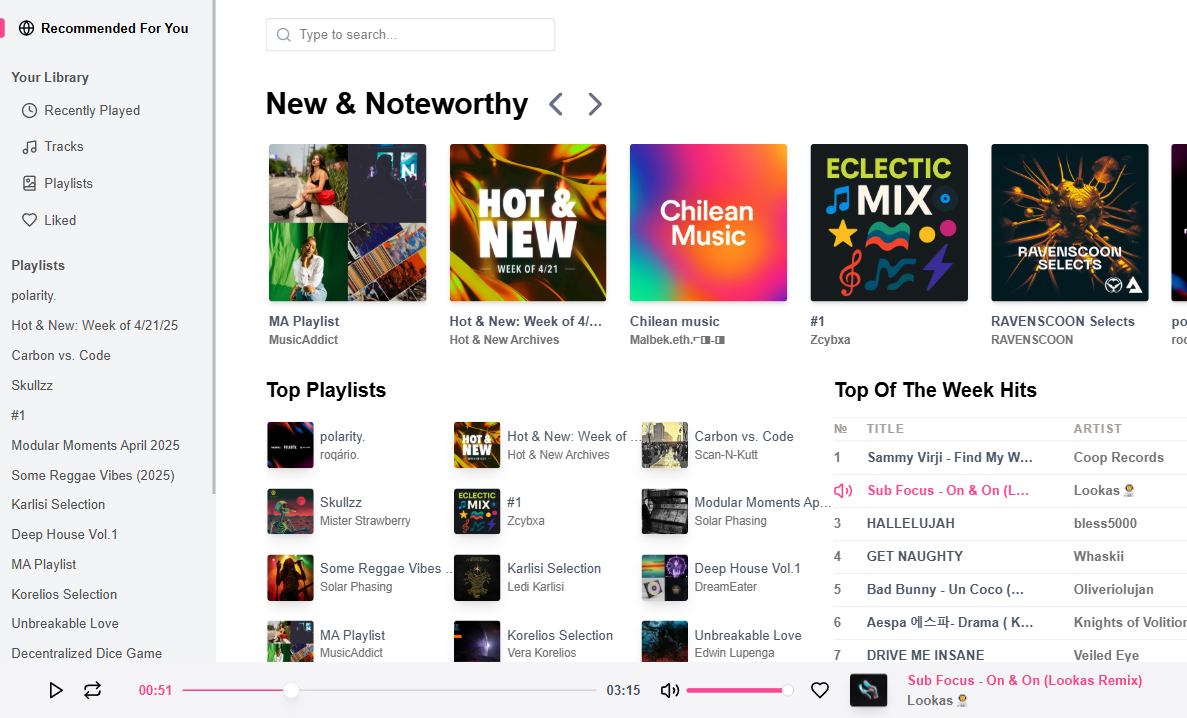
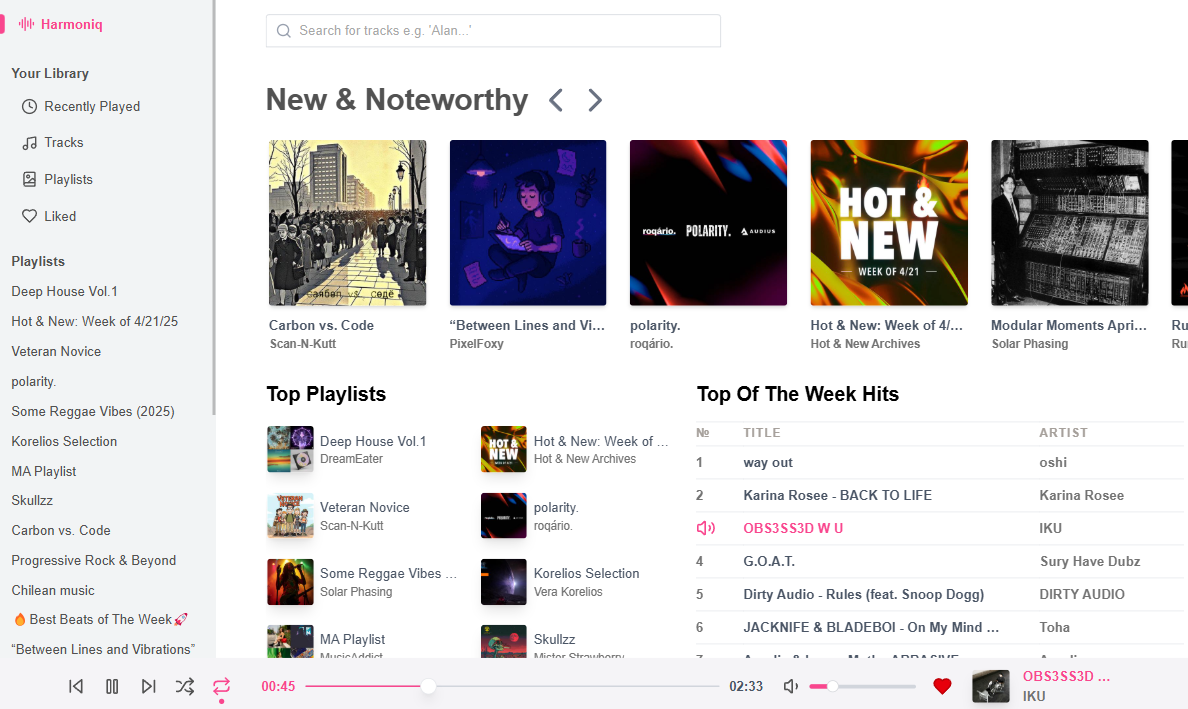
fix (portfolio): update portfolio images (harmoniq)

diff --git a/index.html b/index.html
@@ -43,7 +43,7 @@
       content="Portfolio Dmitrii Golovicichin: web development, projects, skills and contacts."
     />
     <meta name="twitter:image" content="./images/open_graph.webp" />
-    
+
     <meta
       name="google-site-verification"
       content="1N_3vfkRyYtsBKolJtjEsOKwwltzLeN5Prsq76te1-E"
@@ -950,7 +950,7 @@
                   <a
                     title="Open the website in a new tab"
                     class="slider__item-link highlighted-text"
-                    href="https://harmoniq.vercel.app/"
+                    href="https://harmoniq-steel.vercel.app/"
                     target="_blank"
                     >Harmoniq</a
                   >
@@ -959,16 +959,20 @@
                   Music player with tracks, playlists, users, playbar and search.
                 </p>
                 <ul class="slider__item-technologies-list">
-                  <li class="slider__item-technologies-item">
-                    <img
+                  <li class="slider__item-technologies-item" title="NextJs">
+                    <svg
                       class="slider__item-technologies-image"
-                      src="./images/nextjs.svg"
-                      width="32"
-                      height="32"
-                      title="NextJS"
-                      alt="NextJS"
-                      loading="lazy"
-                    />
+                      width="32px"
+                      height="32px"
+                      viewBox="0 0 256 256"
+                    >
+                      <g>
+                        <path
+                          d="M119.616813,0.0688905149 C119.066276,0.118932037 117.314565,0.294077364 115.738025,0.419181169 C79.3775171,3.69690087 45.3192571,23.3131775 23.7481916,53.4631946 C11.7364614,70.2271045 4.05395894,89.2428829 1.15112414,109.384595 C0.12512219,116.415429 0,118.492153 0,128.025062 C0,137.557972 0.12512219,139.634696 1.15112414,146.665529 C8.10791789,194.730411 42.3163245,235.11392 88.7116325,250.076335 C97.0197458,252.753556 105.778299,254.580072 115.738025,255.680985 C119.616813,256.106338 136.383187,256.106338 140.261975,255.680985 C157.453763,253.779407 172.017986,249.525878 186.382014,242.194795 C188.584164,241.068861 189.00958,240.768612 188.709286,240.518404 C188.509091,240.36828 179.124927,227.782837 167.86393,212.570214 L147.393939,184.922273 L121.743891,146.965779 C107.630108,126.098464 96.0187683,109.034305 95.9186706,109.034305 C95.8185728,109.009284 95.7184751,125.873277 95.6684262,146.465363 C95.5933529,182.52028 95.5683284,183.971484 95.1178886,184.82219 C94.4672532,186.048207 93.9667644,186.548623 92.915738,187.099079 C92.114956,187.499411 91.4142717,187.574474 87.6355816,187.574474 L83.3063539,187.574474 L82.1552297,186.848872 C81.4044966,186.373477 80.8539589,185.747958 80.4785924,185.022356 L79.9530792,183.896422 L80.0031281,133.729796 L80.0782014,83.5381493 L80.8539589,82.5623397 C81.25435,82.0369037 82.1051808,81.3613431 82.7057674,81.0360732 C83.7317693,80.535658 84.1321603,80.4856165 88.4613881,80.4856165 C93.5663734,80.4856165 94.4172043,80.6857826 95.7434995,82.1369867 C96.1188661,82.5373189 110.007429,103.454675 126.623656,128.650581 C143.239883,153.846488 165.962072,188.250034 177.122972,205.139048 L197.392766,235.839522 L198.418768,235.163961 C207.502639,229.259062 217.112023,220.852086 224.719453,212.09482 C240.910264,193.504394 251.345455,170.835585 254.848876,146.665529 C255.874878,139.634696 256,137.557972 256,128.025062 C256,118.492153 255.874878,116.415429 254.848876,109.384595 C247.892082,61.3197135 213.683675,20.9362052 167.288368,5.97379012 C159.105376,3.32158945 150.396872,1.49507389 140.637341,0.394160408 C138.234995,0.143952798 121.693842,-0.131275573 119.616813,0.0688905149 L119.616813,0.0688905149 Z M172.017986,77.4831252 C173.219159,78.0836234 174.195112,79.2345784 174.545455,80.435575 C174.74565,81.0861148 174.795699,94.9976579 174.74565,126.348671 L174.670577,171.336 L166.73783,159.17591 L158.780059,147.01582 L158.780059,114.313685 C158.780059,93.1711423 158.880156,81.2862808 159.030303,80.7108033 C159.430694,79.3096407 160.306549,78.2087272 161.507722,77.5581875 C162.533724,77.0327515 162.909091,76.98271 166.837928,76.98271 C170.541544,76.98271 171.19218,77.0327515 172.017986,77.4831252 Z"
+                          fill="#000000"
+                        ></path>
+                      </g>
+                    </svg>
                   </li>
                   <li class="slider__item-technologies-item">
                     <img
@@ -1055,7 +1059,7 @@
         </div>
       </section>
     </main>
-    <footer id="footer" class="footer__outer container__outer" data-aos="fade-up">
+    <footer id="footer" class="footer__outer container__outer">
       <div class="glass-block footer container">
         <div class="footer__text">
           <p>Contact me and your project will come to life on the screen!</p>

diff --git a/styles/main.css b/styles/main.css
@@ -229,7 +229,7 @@ a {
   --color-light-alt: #f1f1f1;
   --color-dark: #140e33;
   --color-dark-trans: #140e3355;
-  --color-accent: #7765dc;
+  --color-accent: #ae8bf8;
   --color-accent-alt: #423399;
   --color-notebook: #4332a1;
   --header-appearing-delay: 0.7s;

diff --git a/styles/_variables.scss b/styles/_variables.scss
@@ -6,7 +6,7 @@
   --color-dark: #140e33;
   --color-dark-trans: #140e3355;
 
-  --color-accent: #7765dc;
+  --color-accent: #ae8bf8;
   --color-accent-alt: #423399;
   --color-notebook: #4332a1;
 
